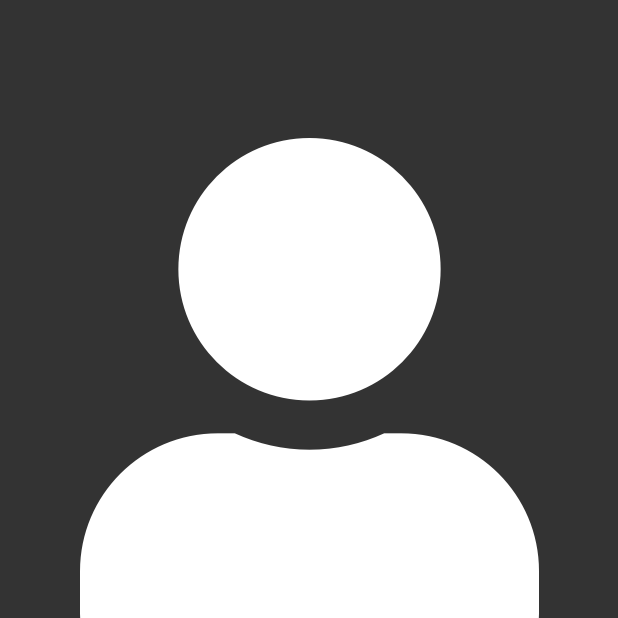
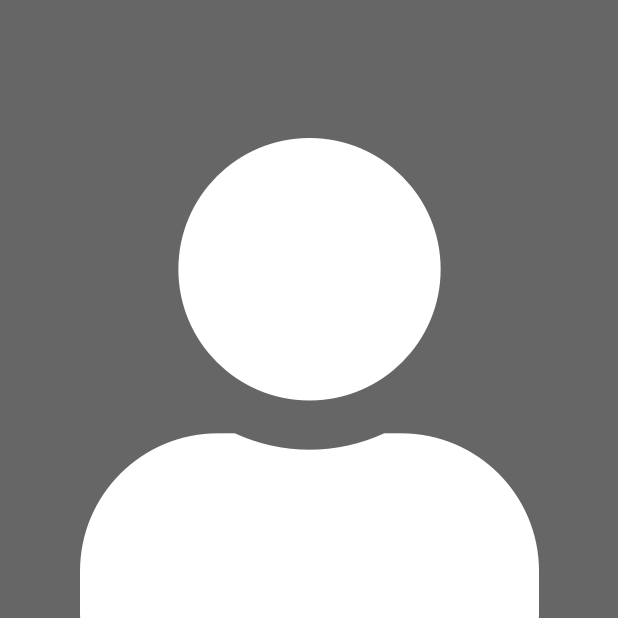
theme adjustments

diff --git a/lib/constants/app_themes.dart b/lib/constants/app_themes.dart
@@ -50,12 +50,13 @@ class AppThemes {
   static const Color _lightBorderErrorColor = brinkPink;
 
   //constants color range for dark theme
-  static const Color _darkPrimaryColor = Colors.blue;
+  static const Color _darkPrimaryColor = dodgerBlue;
 
   //Background Colors
   static const Color _darkBackgroundColor = ebonyClay;
   static const Color _darkBackgroundAppBarColor = _darkPrimaryColor;
-  static const Color _darkBackgroundSecondaryColor = vulcan;
+  static const Color _darkBackgroundSecondaryColor =
+      Color.fromRGBO(0, 0, 0, .6);
   static const Color _darkBackgroundAlertColor = Colors.black;
   static const Color _darkBackgroundErrorColor =
       Color.fromRGBO(255, 97, 136, 1);
@@ -177,7 +178,7 @@ class AppThemes {
   //the dark theme
   static final ThemeData darkTheme = ThemeData(
     brightness: Brightness.dark,
-    primarySwatch: _darkPrimaryColor,
+    //primarySwatch: _darkPrimaryColor, //cant be Color on MaterialColor so it can compute different shades.
     accentColor: _darkPrimaryColor, //prefix icon color form input on focus
 
     fontFamily: font1,
@@ -234,7 +235,7 @@ class AppThemes {
         borderSide: BorderSide(color: _darkBorderErrorColor),
         borderRadius: BorderRadius.all(Radius.circular(8.0)),
       ),
-      fillColor: _darkBackgroundSecondaryColor,
+      fillColor: _darkInputFillColor,
       //focusColor: _darkBorderActiveColor,
     ),
   );
